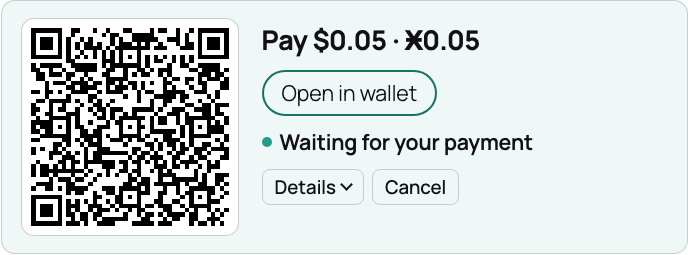
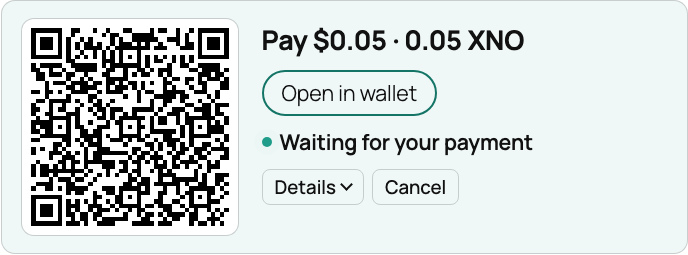
Version 0.2.0: readme, README and screenshots
0.2.0 instead of 0.1.2 (a new card, clean amounts, the cancel route and
database columns). readme.txt: the stable tag and the 0.2.0 changelog; the
FAQ gives amounts as "0.1512 XNO", the cap of a tenth of the price, the
3-minute hold after Cancel, and that a payment with no node time never
counts (fail closed). The lines that still described the old random digits
at the end of an amount are gone from both files; the history of the Cake
Wallet fault stays in one sentence. Screenshots 2 and 5 show "0.05 XNO".

Changed region(s): [[0.5799, 0.1098, 0.7631, 0.2196]]

diff --git a/nano-unlock/nano-unlock.php b/nano-unlock/nano-unlock.php
@@ -2,7 +2,7 @@
 /**
  * Plugin Name:       Nano Unlock
  * Description:       Sell part of a post for a few cents in Nano (XNO). Readers pay your address directly; this site checks the payment with a Nano node. No account, no card, no middleman.
- * Version:           0.1.2
+ * Version:           0.2.0
  * Requires at least: 6.3
  * Requires PHP:      7.4
  * Author:            nano133
@@ -15,7 +15,7 @@
 
 defined( 'ABSPATH' ) || exit;
 
-define( 'NANO_UNLOCK_VERSION', '0.1.2' );
+define( 'NANO_UNLOCK_VERSION', '0.2.0' );
 define( 'NANO_UNLOCK_FILE', __FILE__ );
 define( 'NANO_UNLOCK_DIR', plugin_dir_path( __FILE__ ) );
 define( 'NANO_UNLOCK_URL', plugin_dir_url( __FILE__ ) );

diff --git a/nano-unlock/blocks/paywall/index.asset.php b/nano-unlock/blocks/paywall/index.asset.php
@@ -7,5 +7,5 @@
 
 return array(
 	'dependencies' => array( 'wp-blocks', 'wp-element', 'wp-block-editor', 'wp-components', 'wp-i18n' ),
-	'version'      => '0.1.2',
+	'version'      => '0.2.0',
 );

diff --git a/README.md b/README.md
@@ -73,33 +73,34 @@ the paid part with a dashed border and a note, so they can check it.
    price to XNO at the current rate (the median of CoinGecko, Kraken and
    KuCoin, cached for five minutes; the last good rate is used for up to a
    day if all fail) and rounds it up to 0.0001 XNO (a "step"). That **clean
-   amount**, with no tail, is the checkout's own amount while no other open
-   checkout holds it; otherwise the checkout gets the next free step
-   (Ӿ0.1512, Ӿ0.1513, …). So an amount has **at most four decimals**, and a
-   wallet that rounds to four decimals (Cake Wallet cut 0.1.1's tailed
-   amounts) still sends it exactly. The amount identifies the payment, so no
-   memo is needed, and the match stays exact: no tolerance.
+   amount** is the checkout's own amount while no other open checkout holds
+   it; otherwise the checkout gets the next free step (0.1512 XNO, 0.1513
+   XNO, …). So an amount has **at most four decimals**, and a wallet that
+   rounds to four decimals still sends it exactly. The amount identifies the
+   payment, so no memo is needed, and the match stays exact: no tolerance.
 
    **The reservation.** `amount_lock`, a unique key in the checkouts table,
    holds each checkout's amount. `Nano_Unlock_Store::create()` reads which
-   of the price's 100 steps are held, then inserts the lowest free one; when
+   of the price's steps are held, then inserts the lowest free one; when
    two readers pick the same free step at the same instant, the unique key
    refuses the second insert and that reader moves on to the next step
    (PHPUnit proves it with 24 parallel processes on one database, and the
-   end-to-end test with 110 parallel requests on MySQL). An amount is freed
-   at once when its checkout is paid or cancelled. An unpaid amount stays
-   held for the checkout's 15 minutes, the hour for late payments and 5
-   minutes more (`HOLD_AFTER`, longer than the 2-minute clock allowance
-   below), so a late payment can never meet a new checkout that got its
-   amount. At most 100 steps (Ӿ0.0099 above the price): when all are held,
-   the reader gets "Busy right now … Try again in a moment" (HTTP 503) and
-   nothing is held. One visitor (an IP address, or an IPv6 /64) may hold at
+   end-to-end test with 110 parallel requests on MariaDB). An amount is
+   freed at once when its checkout is paid, and 3 minutes after a cancel
+   (`CANCEL_HOLD`). An unpaid amount stays held for the checkout's 15
+   minutes, the hour for late payments and 5 minutes more (`HOLD_AFTER`,
+   longer than the 2-minute clock allowance below), so a late payment can
+   never meet a new checkout that got its amount. The steps above a price
+   add at most a tenth of it (`MAX_EXTRA_PERCENT`; a 1¢ price of 0.0304 XNO
+   gets at most 30 steps more) and never more than 0.0099 XNO (`MAX_STEPS`,
+   100 amounts): when all are held, the reader gets "Busy right now … Try
+   again in a moment" (HTTP 503) and nothing is held. One visitor (an IP address, or an IPv6 /64) may hold at
    most 10 amounts at once, so one visitor alone can't use up a price's
    steps; the count uses a keyed hash of the address, stored only while the
    amount is held.
 
    The reader gets a QR code and a `nano:` link ("Open in wallet"), which
-   fill in the exact amount, and one line: "Pay $0.05 · Ӿ0.1512". The
+   fill in the exact amount, and one line: "Pay $0.05 · 0.1512 XNO". The
    address and the amount with Copy buttons, the expiry and one sentence of
    help are under "Details". A payment of a wrong amount unlocks nothing;
    the site owner sees it in the wallet and can refund it.
@@ -164,23 +165,27 @@ still counts (the amount stays reserved, and 5 minutes more).
 started the checkout) first asks the node, without the shared scan: if the
 payment is there, the checkout is paid and unlocks; if it is seen but not
 confirmed, the checkout stays open; if the node does not answer, nothing is
-cancelled and the amount stays held. Otherwise the checkout ends and its
-amount is free at once. A reader who just leaves the page cancels nothing.
+cancelled and the amount stays held. Otherwise the checkout ends; its
+amount stays held for 3 more minutes, then it is free. A payment the node
+first sees within a minute after Cancel can then never count for the next
+checkout that gets the amount. A reader who just leaves the page cancels
+nothing.
 
 **Coincidences.** A payment matches only an open checkout that holds exactly
 its amount, sent to the site's address after that checkout started. The
 plugin's own payments can't cross: two open checkouts never share an amount,
 and a used payment is skipped. Only an outside payment to the same address,
 of exactly that 4-decimal amount, during a reader's checkout, would unlock
-it; the owner still receives that money. Round amounts (Ӿ0.1, Ӿ1) are the
+it; the owner still receives that money. Round amounts (0.1 XNO, 1 XNO) are the
 likely ones; an address used only for the plugin has none.
 
 ### Wallets
 
-Amounts have at most four decimals, because some wallets round to four (Cake
-Wallet cut a tailed amount of 0.1.1, so that payment did not match). Version
-0.1.2 was tested with the mock node only: no wallet app has paid one of its
-amounts yet, and Cake Wallet itself was not tested with any version.
+Amounts have at most four decimals, because some wallets round to four.
+Before 0.2.0 amounts had more digits, and Cake Wallet cut one to four
+decimals, so that payment did not match. Version 0.2.0 was tested with the
+mock node only: no wallet app has paid one of its amounts yet, and Cake
+Wallet itself was not tested with any version.
 
 ### Node load
 
@@ -275,12 +280,12 @@ shortcode and a block) and checks:
 
 - the paid parts are not in the HTML, the feed or the core REST API;
 - a checkout asks for an exact, clean amount to the site's address ($0.01 at
-  $0.50 is Ӿ0.02), and the card shows "Pay $0.01 · Ӿ0.02";
+  $0.50 is 0.02 XNO), and the card shows "Pay $0.01 · 0.02 XNO";
 - test mode: the QR code is stamped "do not pay", with no `nano:` link and
   no copy keys; the status is a polite live region; "Details" is a closed
   button that Enter opens;
-- Cancel closes the card, gives the focus back to the Unlock key, and frees
-  the amount at once;
+- Cancel closes the card and gives the focus back to the Unlock key; the
+  amount stays held for 3 minutes, then the next checkout gets it;
 - an unconfirmed payment shows "confirming" and unlocks nothing;
 - a confirmed payment reloads the page with the paid part (about 2 s);
 - a payment already received by the wallet (history) also counts;
@@ -290,13 +295,14 @@ shortcode and a block) and checks:
   next checkout, and the payment that paid it does not pay that one; while
   it is held, the next checkout gets one step more; a used payment never
   pays a second checkout; another browser gets 403 and no receipt;
-- Cancel: only the starting browser; the amount goes to the next checkout;
-  after the payment arrived, Cancel unlocks instead;
+- Cancel: only the starting browser; the amount is held for 3 minutes, then
+  goes to the next checkout; after the payment arrived, Cancel unlocks
+  instead;
 - node down → 503 and nothing unlocks, and Cancel keeps the amount held;
 - 48 fast polls in 6 s cause 2 `receivable` and 2 history calls;
 - the 11th open checkout from one address → 429; the 21st checkout from one
   address in 10 minutes → 429;
-- 60 parallel checkouts (60 visitors) get Ӿ0.1000 … Ӿ0.1059, no two alike;
+- 60 parallel checkouts (60 visitors) get 0.1000 … 0.1059 XNO, no two alike;
   50 more at once: 40 get the last steps, 10 are told "busy";
 - the settings page refuses a mistyped address and lists sales;
 - the block loads in the editor with no warnings or script errors.
